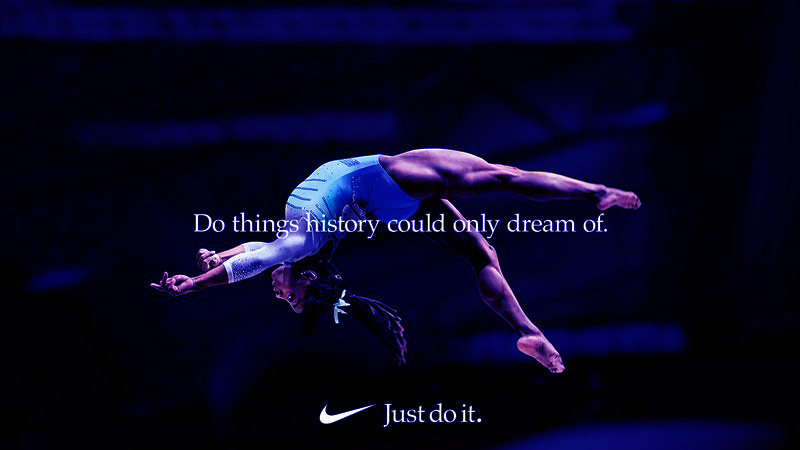
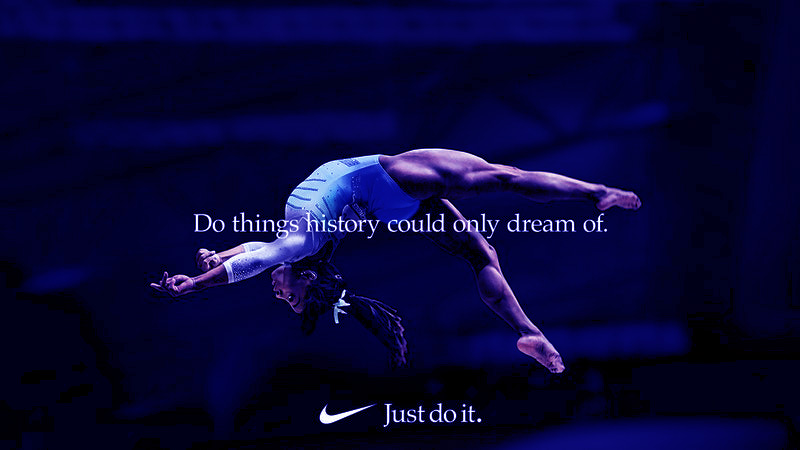
Se agregan img. Leves cambios en css y coment.

diff --git a/css/estilo.css b/css/estilo.css
@@ -166,20 +166,23 @@ label.logo{
     width: 100%;
 }
 
+ /* COMIENZO SECTION 2 NOSOTROS */
+
 #section2{
     width: 100%;
     background-color: white;
     height: 800px;
     background-image: url(../Blue5.jpg);
     background-repeat: no-repeat;
-    background-position: 25% 40%;
+    background-position: 25% 60%;
 }
 
 .container{
     width: 1500px;
     height: 85%;
     background-color: transparent;
-    margin-left: 150px; 
+    margin-left: 150px;
+    padding-top: 70px;
 }
 
 /* COMIENZO CSS TITULO NOSOTROS */
@@ -242,7 +245,7 @@ label.logo{
 /* COMIENZO SECCION 4 CONTACTO */
 
 #section4{
-    height: 900px;
+    height: 1000px;
     width: 100%;
     background-color: white;
 }
@@ -262,19 +265,19 @@ label.logo{
     background: white;
     position: absolute;
     border-radius: 70px;
-    margin-top: 80px;
+    margin-top: 85px;
     left: 40.5%
 }
 .headcontacto{
     width: 750px;
     height: 100px;
     background: black;
-
-
 }
 
+/* CONTAINER SECTION 4 CONTACTO */
+
 .contacto1{
-    width: 150px;
+    width: 120px;
     text-align: left;
     font-size: 50px;
     padding-left: 55px;
@@ -290,25 +293,27 @@ label.logo{
     background: none;
     outline: none;
     font-size: 30px;
-    border-bottom: 2px solid black;
+    border-bottom: 2px solid white;
+    color: white;
 }
 
 .container4{
     width: 750px;
-    height: 650px;  
+    height: 620px;  
     position: absolute;  
     margin-left: 30%;
-    margin-top: 150px;
+    margin-top: 137px;
     background: rgba(77, 103, 255, 1);
+    border-radius: 45px;
     
 }
-
 
 ::placeholder{
     font-size: 30px;
     background: transparent;
-    color: black;
+    color:  white;
 }
+
 
 #text-area{
     width: 250px;
@@ -318,9 +323,9 @@ label.logo{
     margin-left: 23px;
     background-color: transparent;
     border-style: none;
-    border-bottom: 3px solid black;
+    border-bottom: 3px solid  white;
     font-size: 30px;
-    
+    color: white;
 }
 
 #text-area:focus{
@@ -336,10 +341,16 @@ label.logo{
     font-size: 35px;
     background-color: black;
     border-radius: 45px;
-    color: white;
+    color:  white;
     border-style: none;
     outline: none;
 }
+
+.botonform:active{
+    background-color: white;
+    color: black;
+}
+
 .form4{
     width: 150px;
     height: 70px;
